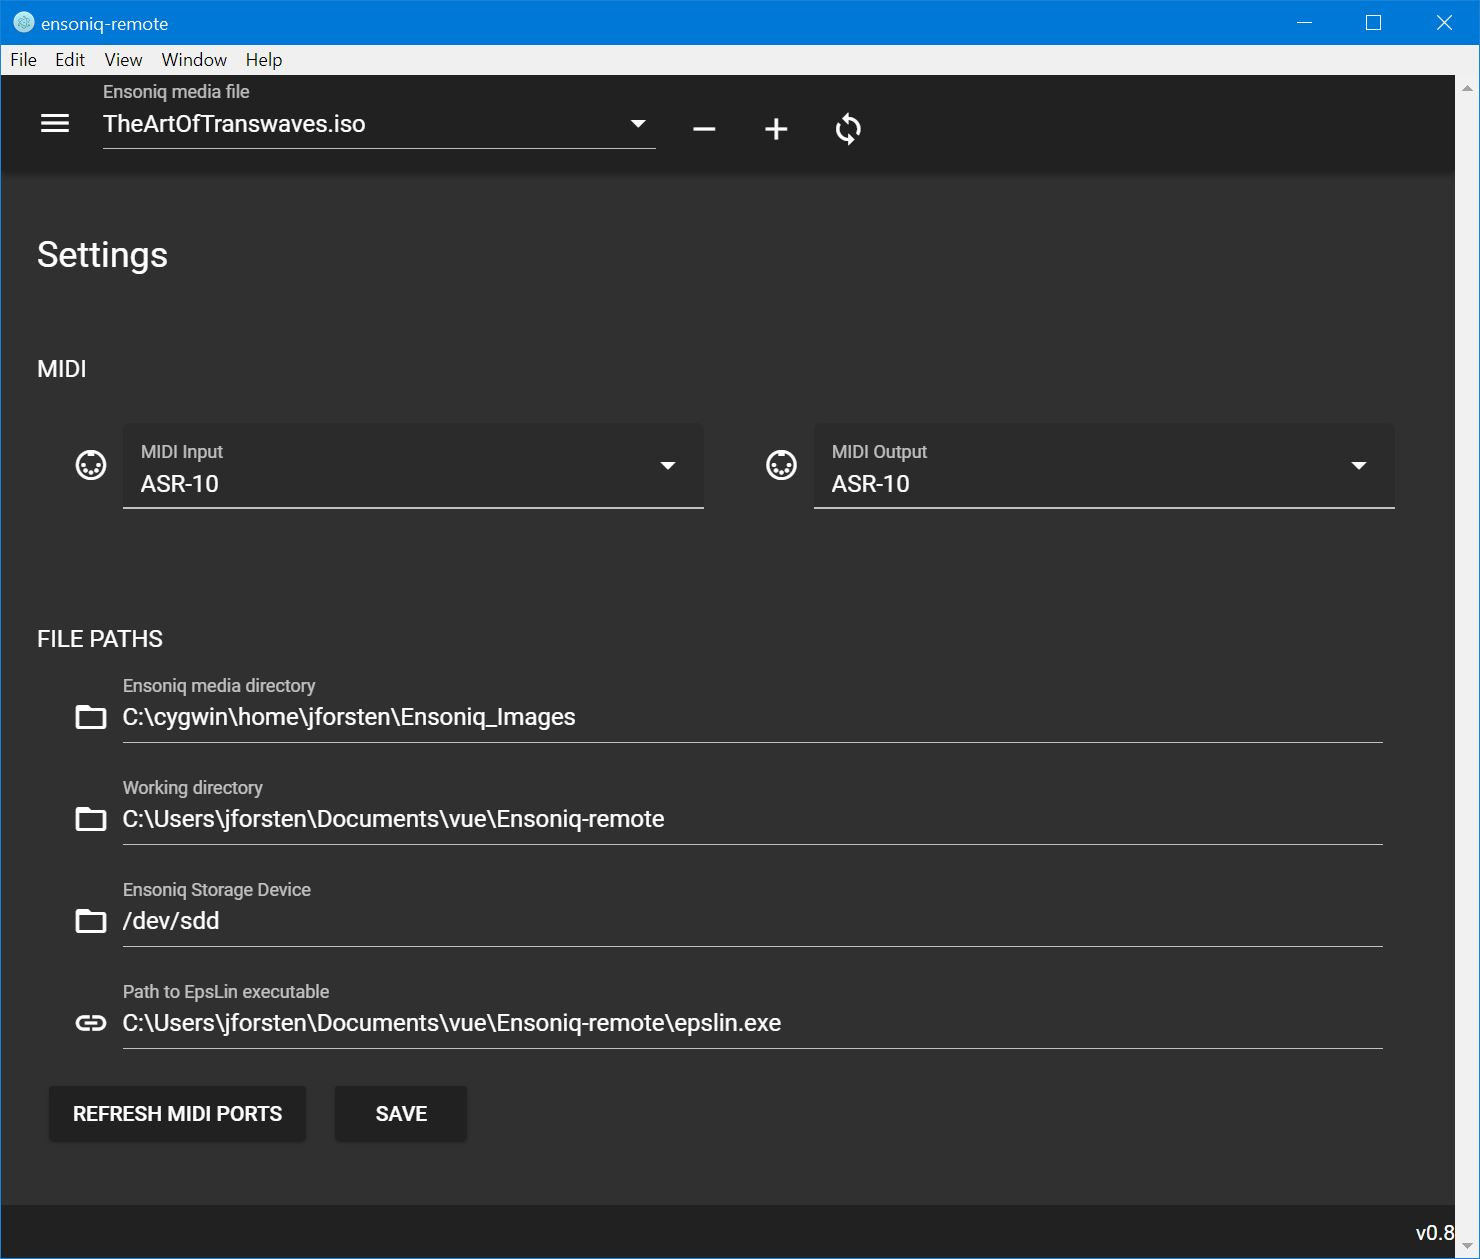
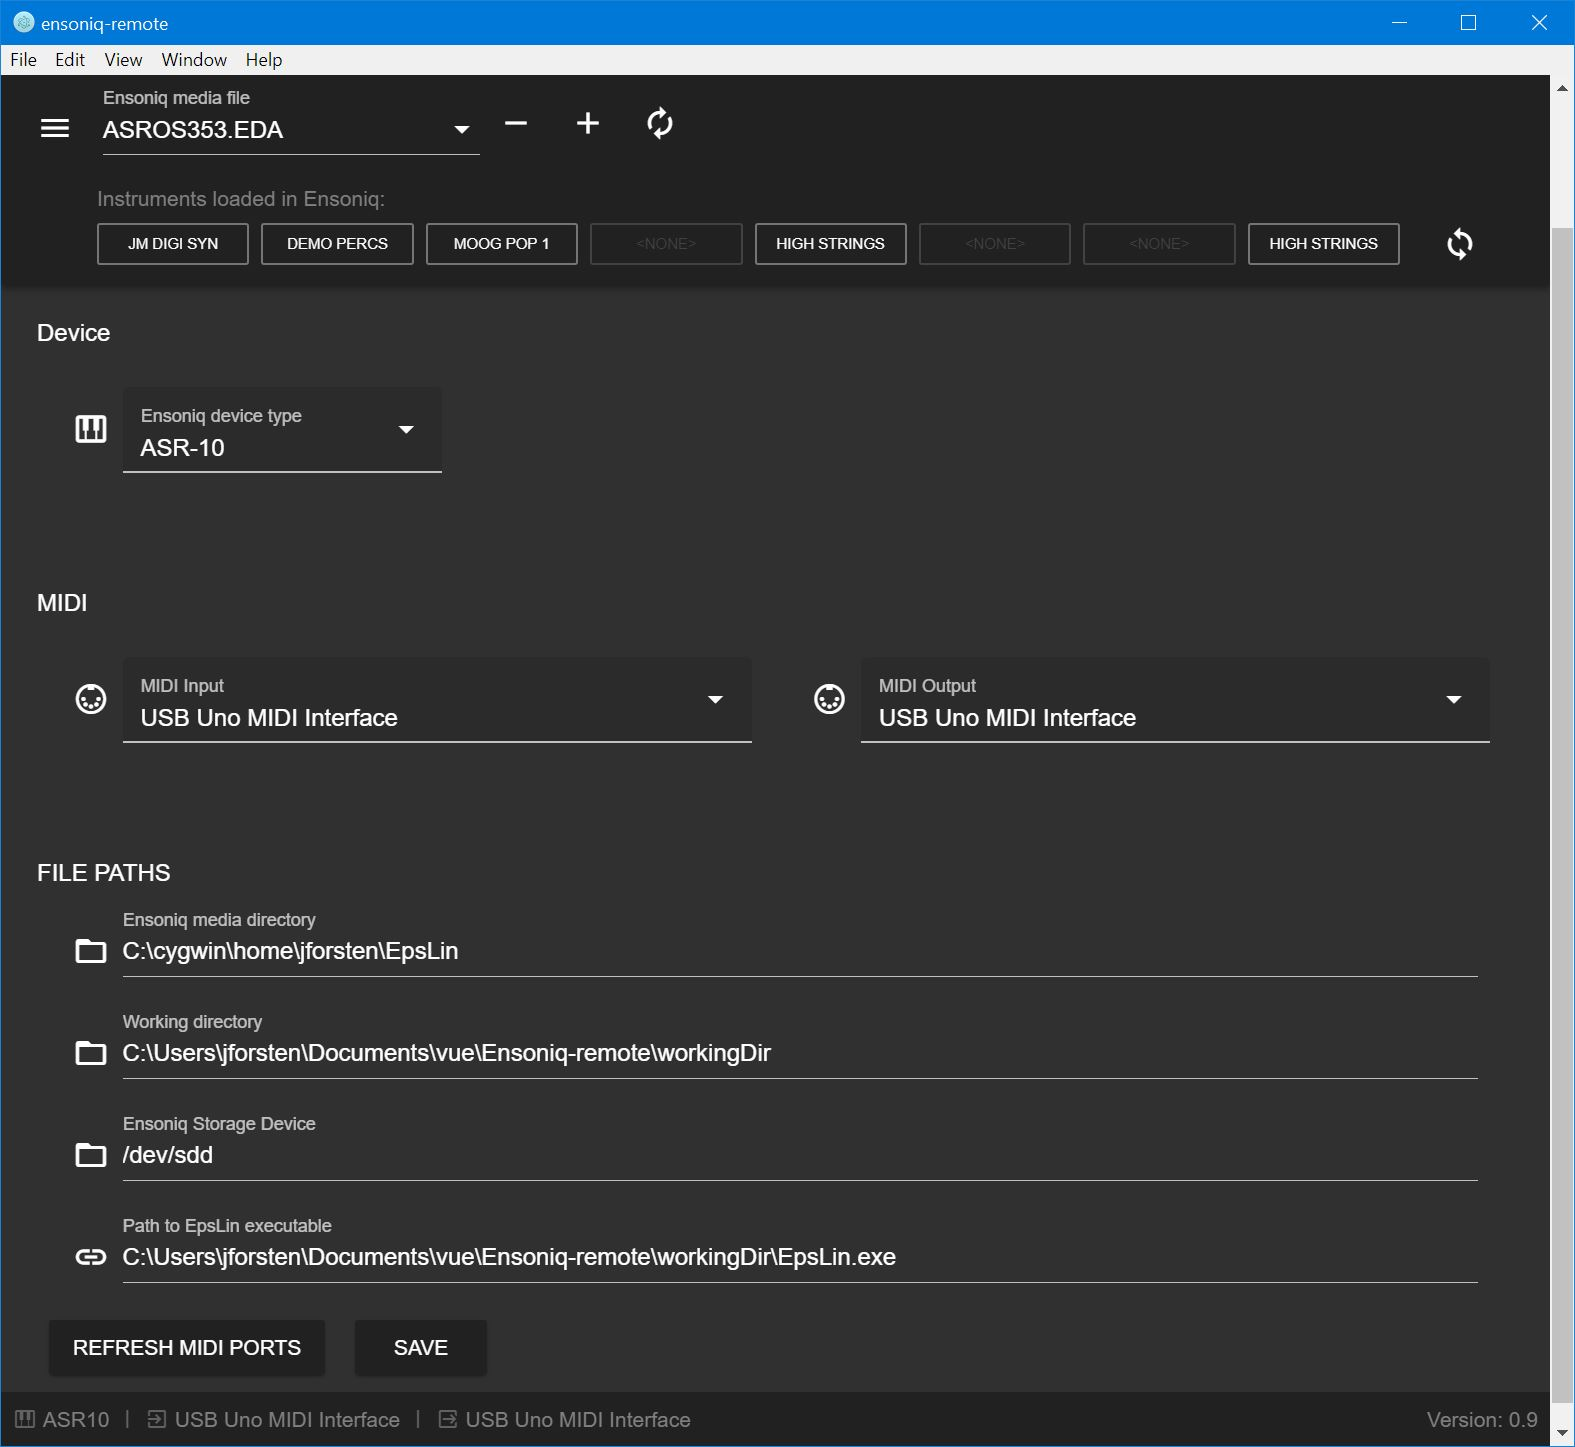
Update screenshots and minor UI tweaks

diff --git a/src/renderer/App.vue b/src/renderer/App.vue
@@ -122,8 +122,8 @@
                       small
                       block
                       :outline="getButtonMode(index)"
-                      color="grey darken-1"
-                      v-on="selectMode ? null : on"
+                      :color="getButtonColor(index)"
+                      v-on="getButtonMenuMode(index) ? null : on"
                       @click="instrumentButtonClicked(index)"
                     > 
                       <font size="1px" :color="getNameColor(index)">{{getName(index)}}</font>
@@ -326,6 +326,7 @@ export default {
     },
 
     getDeviceLoadedInstruments () {
+      this.selectMode = false
       this.progress = true
       DataSource.getAllInstrumentData()
         .then(() => {
@@ -338,22 +339,32 @@ export default {
 
     getName (index) {
       var name = this.deviceLoadedInstruments[index - 1]
-      return name === null ? 'EMPTY' : name
+      return name === null ? '<none>' : name
     },
 
     getNameColor (index) {
       var name = this.deviceLoadedInstruments[index - 1]
-      if (name === null) return ''
+      if (name === null) return this.selectMode ? 'grey' : ''
       return 'white'
+    },
+
+    getButtonColor (index) {
+      return (this.deviceLoadedInstruments[index - 1] === null) ? 'grey darken-3' : 'grey darken-1'
     },
 
     getButtonMode (index) {
       return !(this.selectMode && index !== this.sourceButtonIndex)
     },
 
+    getButtonMenuMode (index) {
+      return (this.deviceLoadedInstruments[index - 1] === null) || // No menu for empty instruments or...
+      (this.selectMode && index === this.sourceButtonIndex) // ... source instrument when copying
+    },
+
     instrumentButtonClicked (pos) {
       if (this.selectMode) {
-        console.log('Copying from ' + this.sourceButtonIndex + ' to ' + pos)
+        // Clicking source button will cancel the copy
+        if (pos === this.sourceButtonIndex) { this.selectMode = false; return }
         this.selectMode = false
         this.progress = true
         DataSource.copyInstrument(this.sourceButtonIndex, pos)
@@ -361,17 +372,14 @@ export default {
         return
       }
       this.sourceButtonIndex = pos
-      console.log('click:' + pos)
     },
 
     menuItemClicked (title) {
       console.log(title)
       if (title === 'COPY') {
-        console.log('Copy:' + this.sourceButtonIndex)
         this.selectMode = true
       }
       if (title === 'DELETE') {
-        console.log('Delete:' + this.sourceButtonIndex)
         this.progress = true
         DataSource.deleteInstrument(this.sourceButtonIndex)
           .then(() => { this.progress = false })
@@ -385,10 +393,10 @@ export default {
       .then(() => { this.updateMediaList() })
       .then(() => DataSource.initializeMidi())
       .then(() => {
-        console.log('REFRESH MIDI NAMES')
         this.midiInputName = this.currentMidiInput
         this.midiOutputName = this.currentMidiOutput
       })
+      .then(() => this.getDeviceLoadedInstruments())
   }
 }
 </script>
